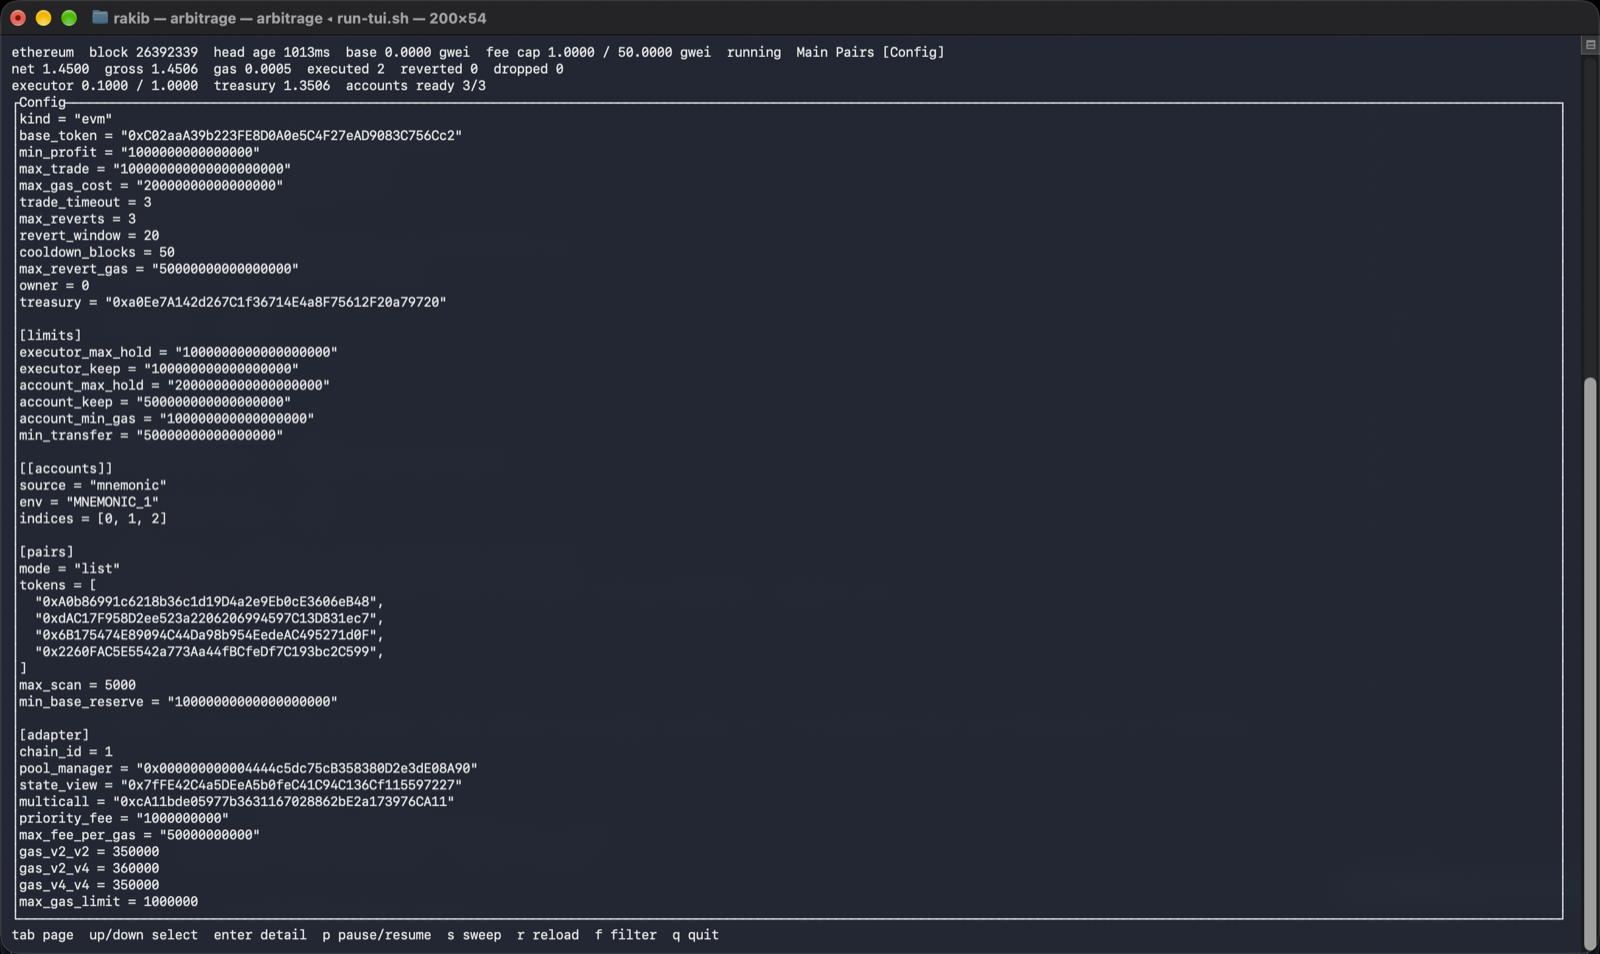
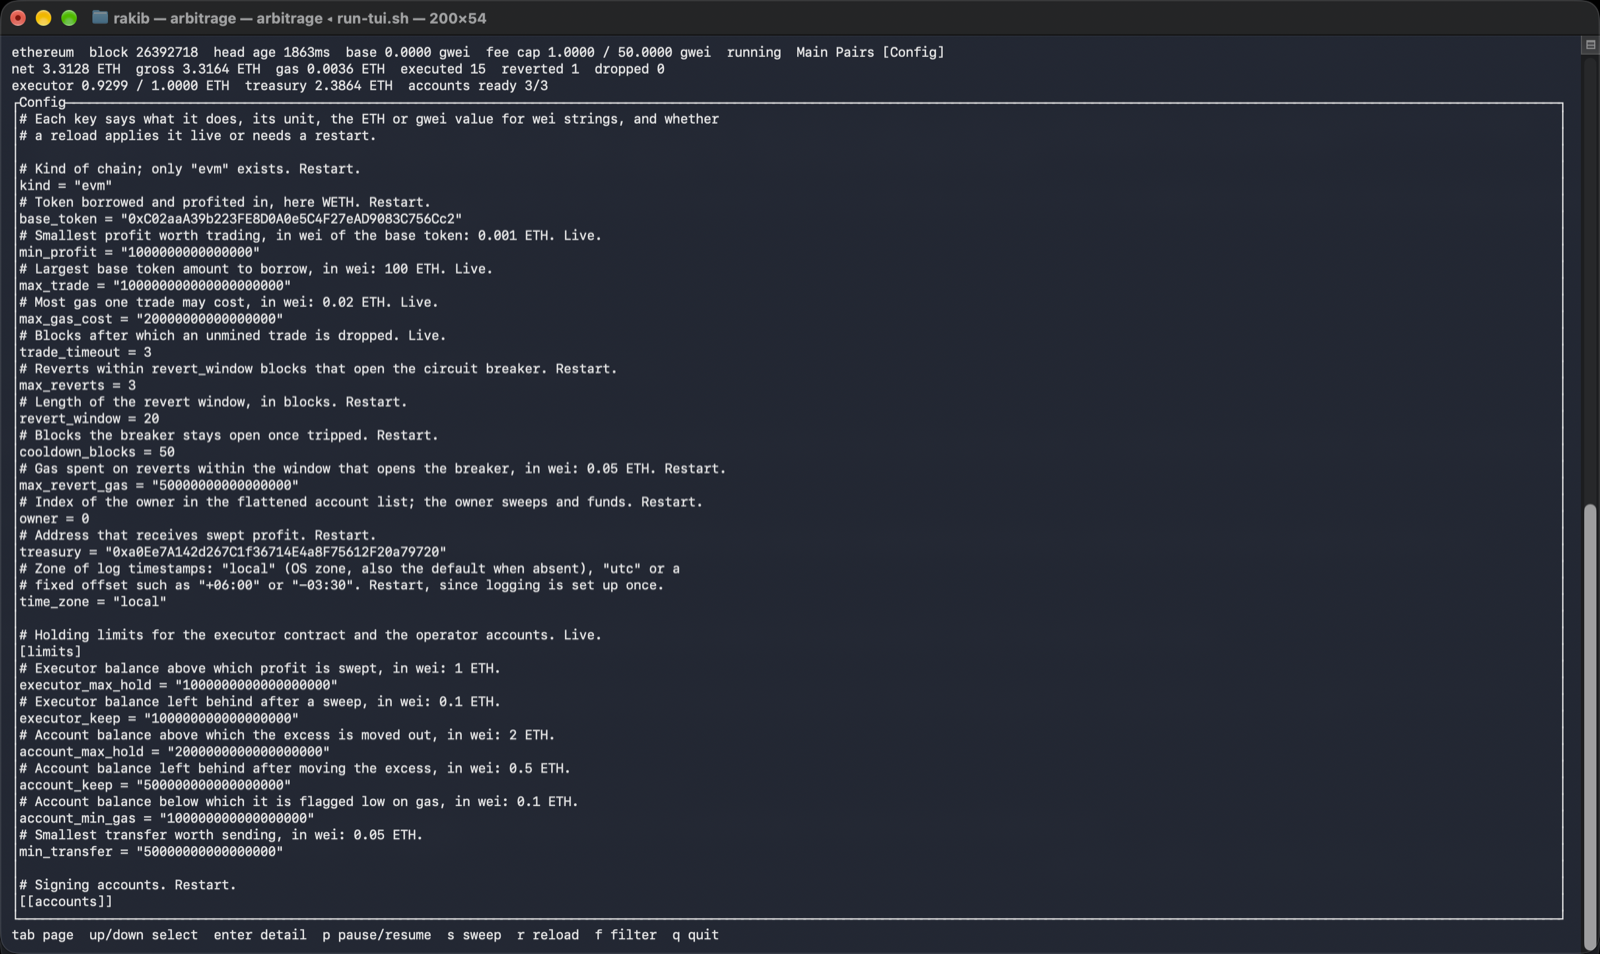
Retake screenshots on a busy fork run

Changed region(s): [[0.0, 0.0608, 0.4375, 0.9727], [0.9688, 0.3952, 1.0, 0.5472]]

diff --git a/README.md b/README.md
@@ -6,31 +6,27 @@ A flash-loan arbitrage bot for Uniswap V4, Uniswap V2 and SushiSwap. It watches 
 
 ## Screenshots
 
-Captured from a live fork run.
+Captured from a live fork run, with 16 swaps pushed through SushiSwap and Uniswap V2 on the USDC, USDT, DAI and WBTC pairs.
 
 ![Main screen](docs/images/main.png)
 
-The main screen after two executed trades, +0.5310 and +0.9195 ETH. The executor swept 1.3506 ETH to the treasury. The opportunities panel keeps recent decisions across blocks.
+The main screen: 15 trades executed and 1 reverted, for 3.3128 ETH net. Two sweeps moved 2.3864 ETH to the treasury. Each opportunity shows its verdict: sent, skipped for gas or for the minimum profit, or locked behind a trade in flight. Log times are in the local zone.
+
+![Decision detail](docs/images/detail.png)
+
+A sent decision: the legs, the profit by size curve, the send parameters, and the result. It was decided 16ms after the block was read and sent at 17.6ms, and it earned 0.0643 ETH.
+
+![Pairs tab](docs/images/pairs.png)
+
+The Pairs tab: each venue pair with its last spread and verdict.
+
+![Config tab](docs/images/config.png)
+
+The Config tab shows the running config, with every key commented.
 
 ![Connecting](docs/images/connecting.png)
 
 Startup: the screen shows the connect while pools load, before any trading.
-
-![First trade](docs/images/first-trade.png)
-
-The first trade, Executed.
-
-![Decision detail](docs/images/detail.png)
-
-A SENT decision: the legs, the profit by size curve, the send parameters, and timing. Decided in 76ms, sent in 79ms.
-
-![Pairs tab](docs/images/pairs.png)
-
-The Pairs tab.
-
-![Config tab](docs/images/config.png)
-
-The Config tab.
 
 ## Credentials
 
@@ -76,7 +72,7 @@ Make targets:
 
 After `make teardown`, run `make setup` again before any fork target.
 
-The first `make run` connects slowly, a few minutes, while pool state loads.
+The first `make run` on a newly pinned block connects slowly, about ten minutes, because anvil fetches pool state from `FORK_URL` one storage slot at a time, about ten thousand requests. That costs credits on a paid key. Later runs on the same block read anvil's disk cache and connect in seconds. A free node such as publicnode keeps old state for only a few minutes, so an old pin needs a node that serves historical state, or `make fork-fresh`.
 
 ### Fork tests
 
